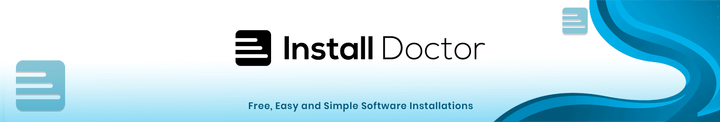
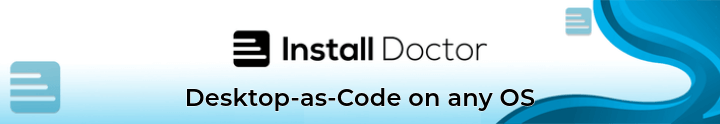
Updated featured graphic and updated markdown parser

diff --git a/docusaurus.config.js b/docusaurus.config.js
@@ -188,12 +188,6 @@ module.exports = {
       return {
         name: 'ionic-docs-ads',
         async loadContent() {
-          const repoName = 'ionicframeworkcom';
-          const endpoint = prismic.getEndpoint(repoName);
-          const client = prismic.createClient(endpoint, {
-            fetch,
-          });
-
           if (fs.existsSync('./local/docsad.prismic.json')) {
             const prismic = fs.readFileSync('./local/docsad.prismic.json')
             return JSON.parse(prismic.toString())

diff --git a/src/styles/custom.scss b/src/styles/custom.scss
@@ -336,7 +336,7 @@ html {
   -webkit-font-smoothing: antialiased;
   text-rendering: optimizeLegibility;
   font-smoothing: antialiased;
-
+  scroll-behavior: smooth;
   scroll-padding-top: calc(var(--ifm-navbar-height) + 16px);
 }
 
